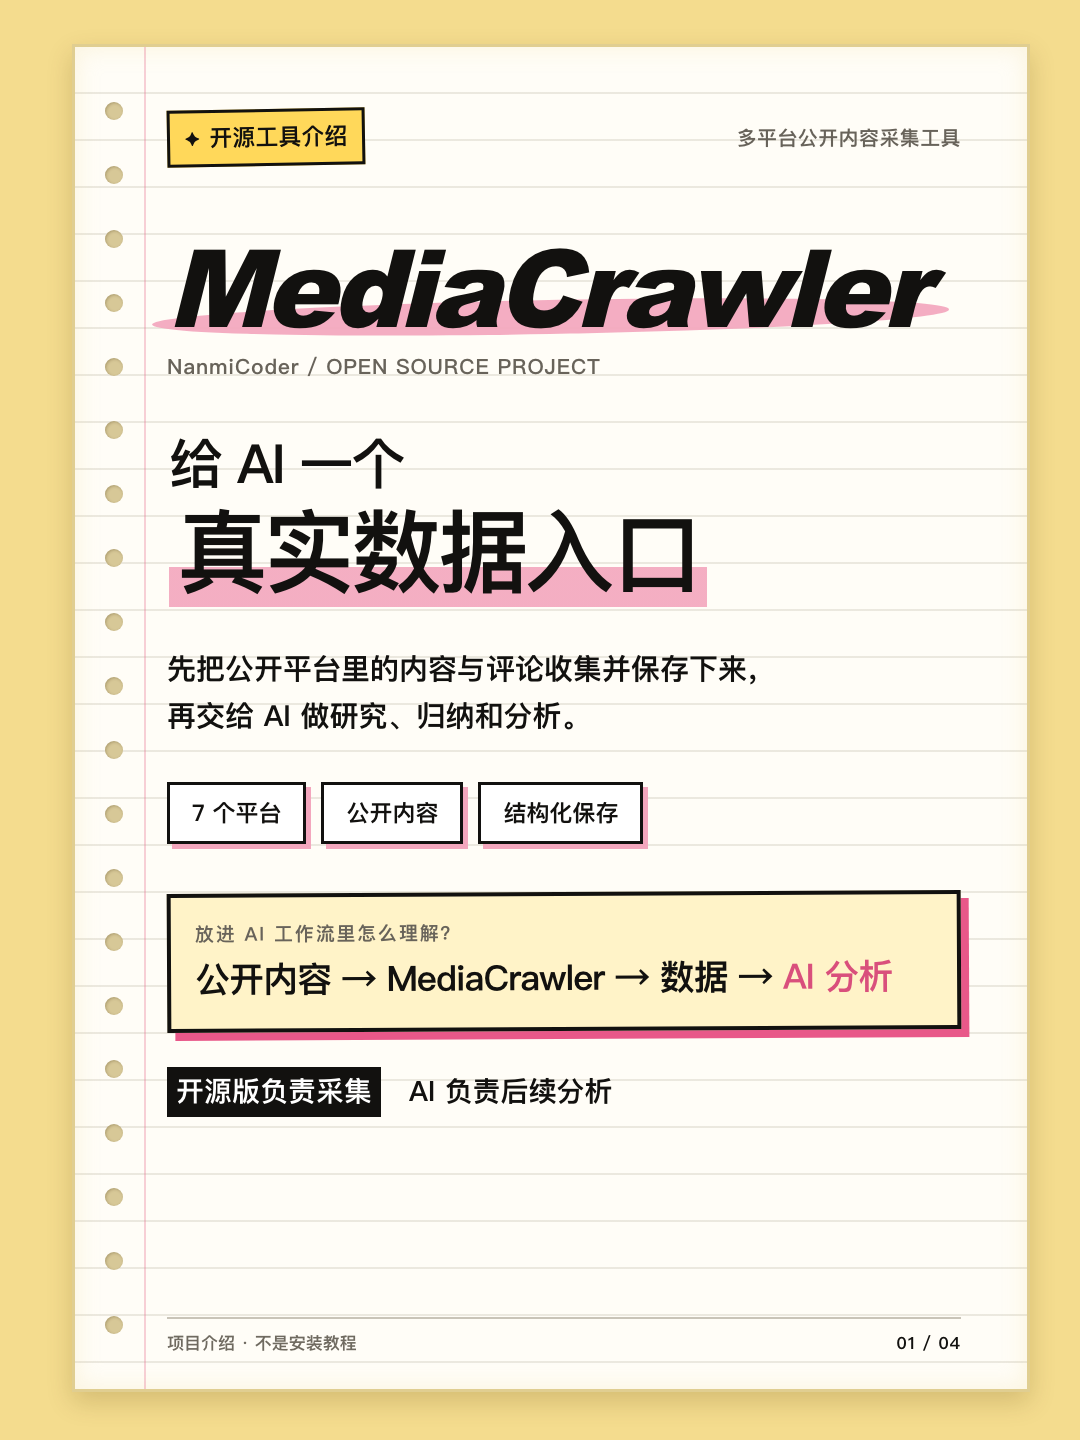
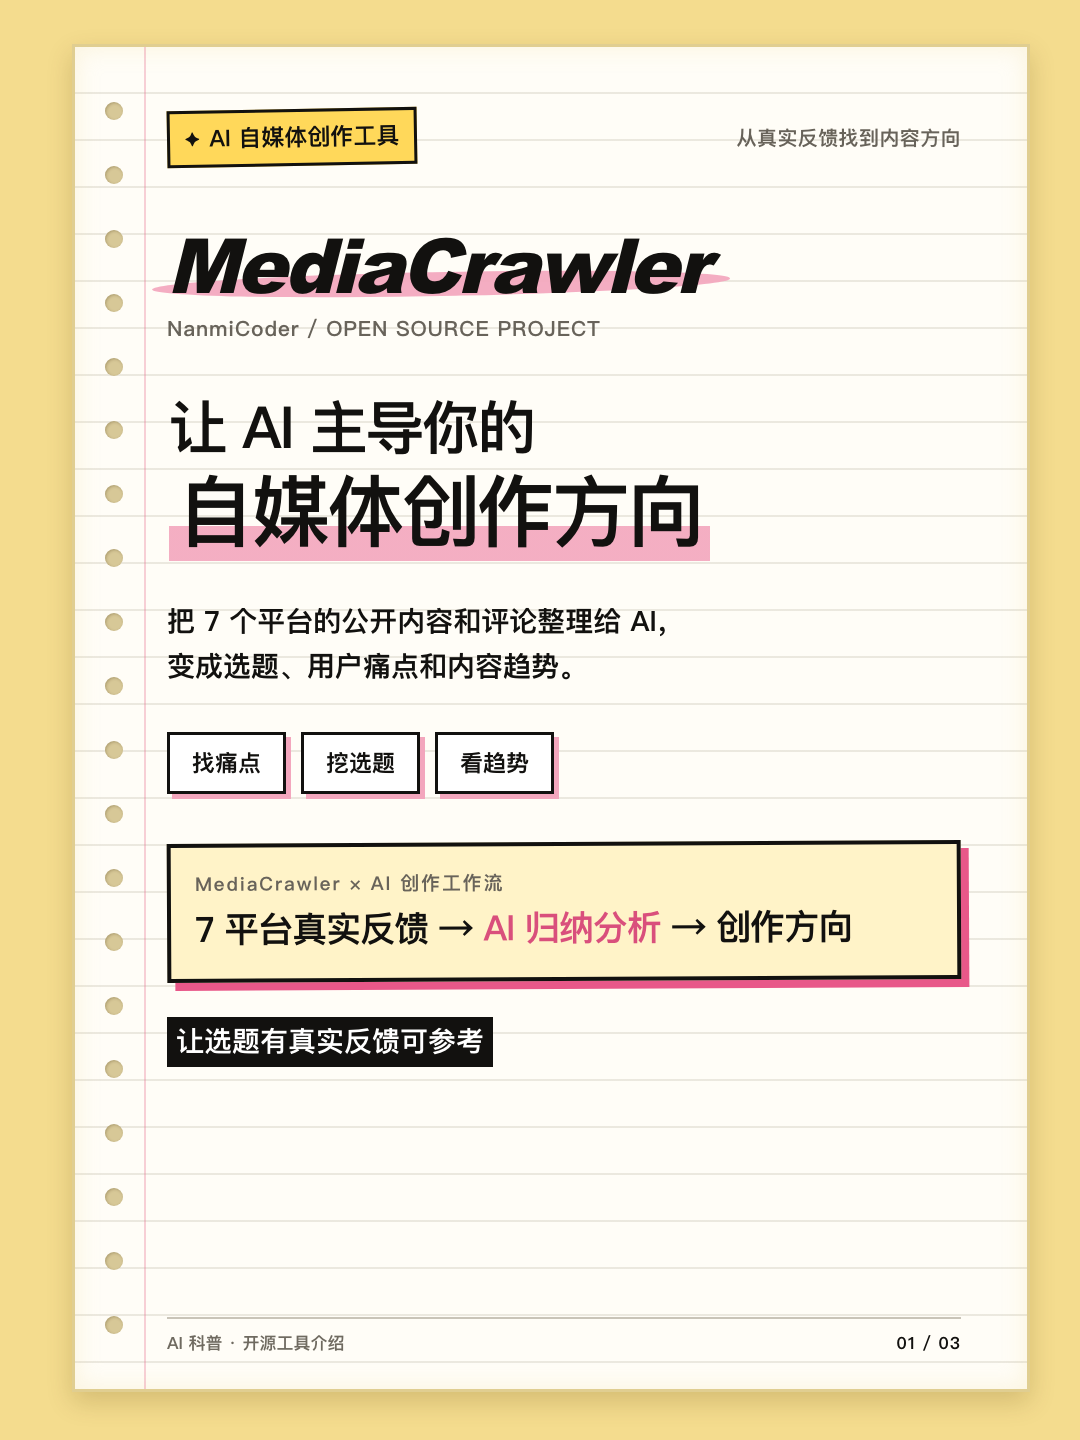
内容：突出 AI 自媒体创作价值并精简为三图

diff --git a/projects/issue-6-mediacrawler-ai-data-entry/cards/plan.md b/projects/issue-6-mediacrawler-ai-data-entry/cards/plan.md
@@ -1,13 +1,12 @@
-# 四卡视觉计划
+# 三卡视觉计划
 
 ## 交付数量
 
-最终只交付以下 4 张卡片：
+最终只交付以下 3 张卡片：
 
 1. `cards/output/xhs-01-cover.png`
 2. `cards/output/xhs-02-capabilities.png`
 3. `cards/output/xhs-03-ai-workflow.png`
-4. `cards/output/xhs-04-boundaries.png`
 
 ## 统一规格与视觉
 
@@ -17,20 +16,20 @@
 - 安全边距：四周至少 64 px
 - 生成方式：本地 HTML/CSS 确定性排版后截图
 - 参考 [“自媒体人都在用的爬虫神器”](https://www.xiaohongshu.com/explore/694eed8c000000002203a8f0) 的横线笔记本结构；
-- 四张统一使用暖黄色外框、白色横线纸、左侧装订孔、黑色粗体和粉色荧光笔强调；
-- 弱化 GitHub：不使用大号 `GitHub` 字样与章鱼图形，`MediaCrawler` 始终是项目识别主体；
-- 所有平台只使用文字名称，不使用 Logo；
-- 不放 GitHub Star、作者头像、仓库截图或未经许可的外部图片。
+- 三张统一使用暖黄色外框、白色横线纸、左侧装订孔、黑色粗体和粉色荧光笔强调；
+- 弱化 GitHub，不使用大号 `GitHub` 字样、章鱼图形、仓库截图和 Star 数；
+- 所有平台只使用文字名称，不使用 Logo。
 
-## 卡片 1：封面
+## 卡片 1：结果导向封面
 
-- 核心信息：这是一个能为 AI 工作流提供真实平台资料的开源采集项目。
-- 眉题：`开源工具介绍`
-- 第一视觉中心：`MediaCrawler`
-- Hook：`给 AI 一个 / 真实数据入口`
-- 轻量说明：`先收集公开内容与评论，再交给 AI 做研究和分析`
-- 三个能力标签：`7 个平台`、`公开内容`、`结构化保存`
-- 页码：`01 / 04`
+- 核心信息：MediaCrawler 能把多个平台的公开反馈整理给 AI，帮助判断自媒体创作方向。
+- 眉题：`AI 自媒体创作工具`
+- 工具名：`MediaCrawler`
+- 第一视觉中心：`让 AI 主导你的 / 自媒体创作方向`
+- 轻量说明：`把 7 个平台的公开内容和评论，变成选题、用户痛点和内容趋势`
+- 三个结果标签：`找痛点`、`挖选题`、`看趋势`
+- 简化链路：`7 平台真实反馈 → AI 归纳分析 → 创作方向`
+- 页码：`01 / 03`
 
 ## 卡片 2：项目能力
 
@@ -42,49 +41,37 @@
   - `看`：指定内容、创作者主页；
   - `收`：评论、二级评论。
 - 保存格式：JSON、Excel、SQLite / 数据库
-- 页码：`02 / 04`
+- 页码：`02 / 03`
 
-## 卡片 3：AI 工作流
+## 卡片 3：AI 创作工作流
 
-- 核心信息：采集与 AI 分析是前后相接的两个阶段。
-- 标题：`它和 AI，怎么配合？`
-- 示例主题：`普通用户最不懂 AI 绘图的什么？`
+- 核心信息：从采集公开资料到得到可执行创作方向的完整链路。
+- 标题：`它怎么帮你定创作方向？`
+- 用户问题：`下一条内容写什么？用户真正关心什么？`
 - 四步链路：
   1. 确定主题与关键词；
   2. MediaCrawler 收集公开内容与评论；
   3. 保存原始数据并保留出处；
-  4. AI 归纳高频问题、争议观点和选题线索。
-- 结论：`不是让 AI 替你下结论，而是先给它可回看的材料。`
-- 页码：`03 / 04`
-
-## 卡片 4：能力边界
-
-- 核心信息：介绍工具时必须分清开源版、Pro 版和使用边界。
-- 标题：`先分清这 3 件事`
-- 三点：
-  1. 开源版核心是数据采集，不是内置 AI Agent；
-  2. README 提到的内容拆解 Agent、AI Agent Skill 属于 MediaCrawlerPro；
-  3. 项目限非商业学习与研究，遵守平台规则，不做大规模采集。
-- 强调：`采集 ≠ 分析；AI 总结 ≠ 事实结论`
-- 项目入口：`github.com/NanmiCoder/MediaCrawler`
-- 页码：`04 / 04`
+  4. AI 归纳高频问题、用户痛点和争议观点。
+- AI 输出：`选题清单`、`用户痛点`、`内容角度`、`创作 Brief`
+- 结论：`从散落信息，变成可执行的创作方向。`
+- 页码：`03 / 03`
 
 ## 证据映射
 
 - 七个平台、采集能力：MediaCrawler README、`config/base_config.py`；
 - 数据格式：数据保存指南；
-- AI 工作流：基于已核实能力形成的方法示例，不声称已经实测固定效果；
-- 开源版/Pro 版边界：README 的 MediaCrawlerPro 段落；
-- 非商业学习边界：LICENSE。
+- AI 创作工作流：基于已核实采集能力形成的方法示例，不声称发布账号已实际运行固定效果；
+- 许可证、开源版与 Pro 版区分继续保留在 `research.md`，不进入三张公开卡片。
 
 事实来源见 `../sources/mediacrawler-source-map.md`；视觉参考见 `../sources/visual-reference.md`。
 
 ## QA 重点
 
-- 四张图片文件名、数量、尺寸和计划一致；
+- 三张图片文件名、数量、尺寸和计划一致；
+- 首页第一眼说清 AI 为自媒体创作带来的结果，不再以“数据入口”作为主标题；
 - 每张只表达一个核心意思，手机缩略图下标题仍清楚；
 - 七个平台名称无遗漏、无错字；
-- AI 工作流顺序一眼可读；
-- 不让读者误以为 MediaCrawler 开源版内置 AI；
-- 底部页码、边界文字不贴边、不裁切；
-- `cards/output/` 中最终只有四张 PNG。
+- 第 3 张从采集到创作方向的顺序一眼可读；
+- 底部页码不贴边、不裁切；
+- `cards/output/` 中最终只有三张 PNG。

diff --git a/projects/issue-6-mediacrawler-ai-data-entry/copy.md b/projects/issue-6-mediacrawler-ai-data-entry/copy.md
@@ -2,53 +2,53 @@
 
 ## 标题候选
 
-1. **别只喂提示词，先给 AI 真实数据**（最终采用）
-2. 这个爬虫，能给 AI 补上信息差
-3. AI 内容研究，多了一个数据入口
-4. MediaCrawler 到底能干嘛？
-
-最终标题不超过 20 个中文字符；“AI”按一个英文词组计入标题展示。
+1. **让 AI 主导你的自媒体创作方向**（最终采用）
+2. 让 AI 帮你决定下一条内容做什么
+3. 用 7 个平台的真实反馈，让 AI 帮你定选题
+4. MediaCrawler 到底能帮 AI 做什么？
 
 ## 最终正文
 
-很多人用 AI 做内容，第一反应是继续改提示词。
+做自媒体，最难的往往不是把内容写出来，而是决定：**下一条到底该写什么？**
 
-但有时候，问题根本不在提示词，而在于：**AI 手里没有你真正想研究的资料。**
+AI 很会生成，但如果它不知道平台上的用户正在讨论什么、吐槽什么、反复追问什么，给出的选题还是容易飘在空中。
 
-最近看到一个开源项目叫 **MediaCrawler**。它本身不是大模型，也不是开箱即用的 AI Agent。开源版做的事情更基础：帮你收集多个内容平台上的公开帖子、视频信息、创作者主页和评论。
+这时候，可以看看开源项目 **MediaCrawler**。
 
-目前项目 README 列出了 7 个平台：小红书、抖音、快手、B 站、微博、贴吧和知乎。你可以按关键词找内容，也可以采集指定内容、创作者主页和评论，再保存成表格、JSON 或数据库。
+它能收集多个内容平台上的公开帖子、视频信息、创作者主页和评论。目前项目 README 列出了 7 个平台：小红书、抖音、快手、B 站、微博、贴吧和知乎。
 
-那它为什么值得放进 AI 科普里讲？
+你可以按关键词寻找内容，也可以收集指定内容、创作者主页和评论，再保存成表格、JSON 或数据库。
 
-因为它刚好补上了 AI 工作流前面的一段：
+这些资料接进 AI 工作流后，就可以用来：
 
-**平台公开内容 → MediaCrawler → 可整理的数据 → AI 分析**
+- 归纳用户反复提到的高频问题；
+- 找出评论里的真实痛点；
+- 对比不同人群的争议观点；
+- 挖掘新的内容角度和选题方向；
+- 整理成下一轮创作可以直接使用的 Brief。
 
-举个例子。假设你想研究“普通用户最不懂 AI 绘图的什么”：
+比如你想研究“普通用户最不懂 AI 绘图的什么”，可以这样做：
 
-1. 先确定主题和关键词；
-2. 收集一组相关公开内容与评论；
-3. 把数据保存下来，保留原始出处；
-4. 再让 AI 归纳高频问题、常见误区和争议观点；
-5. 最后由人回看来源，整理成选题或内容 Brief。
+1. 确定主题和关键词；
+2. 用 MediaCrawler 收集相关公开内容与评论；
+3. 保存原始资料和出处；
+4. 让 AI 归纳高频问题、用户痛点和争议观点；
+5. 再整理成选题清单与内容 Brief。
 
-重点不是“让 AI 替你下结论”，而是先给它一批可以回看的真实材料。
+简单说，**MediaCrawler 负责把散落的平台反馈收起来，AI 负责从这些资料里找出创作方向。**
 
-这里也要分清一个边界：MediaCrawler 开源版的核心是数据采集；README 中提到的“内容拆解 Agent”和“AI Agent Skill”属于另外介绍的 MediaCrawlerPro，不要混成同一个功能。
+这样做内容时，参考的不只是自己的感觉，还有真实用户正在表达的问题。
 
-另外，这个项目使用的是非商业学习许可证，只适合学习与研究。实际使用时也要遵守平台规则，控制范围和频率，不采集私人信息，不做大规模抓取。
-
-如果你平时用 AI 做内容，你最想让它先帮你研究哪个平台？
+如果让 AI 帮你研究一个平台，你最想先看哪个？
 
 项目地址：https://github.com/NanmiCoder/MediaCrawler
 
 ## 标签建议
 
-`#AI工具` `#AI科普` `#开源项目` `#MediaCrawler` `#内容研究` `#数据分析` `#效率工具`
+`#AI工具` `#AI科普` `#自媒体运营` `#MediaCrawler` `#内容创作` `#选题策划` `#效率工具`
 
 ## 发布备注
 
 - 链接在部分平台可能不可直接点击，发布时可保留项目名与 GitHub 路径；
 - 不添加“亲测”“一直在用”等第一人称体验表述；
-- 如发布前 README 已更新，应重新核对七个平台、Pro 版能力和许可证。
+- 如发布前 README 已更新，应重新核对七个平台和采集能力。

diff --git a/projects/issue-6-mediacrawler-ai-data-entry/qa.md b/projects/issue-6-mediacrawler-ai-data-entry/qa.md
@@ -1,6 +1,6 @@
 # Issue #6 质量检查
 
-检查时间：2026-07-31T11:31:57+08:00
+检查时间：2026-07-31T11:58:43+08:00
 
 ## 事实与来源
 
@@ -16,34 +16,33 @@
 
 ## 文案
 
-- [x] 标题、封面与正文都围绕“给 AI 真实数据”展开；
+- [x] 标题、封面与正文都围绕“让 AI 从真实平台反馈中判断自媒体创作方向”展开；
 - [x] 标题不超过 20 个中文字符；
-- [x] 开头直接指出“问题可能不在提示词，而在资料”；
-- [x] 正文包含工具是什么、与 AI 的关系、具体工作流、适用场景和使用边界；
+- [x] 开头直接指出自媒体创作者“下一条写什么”的问题；
+- [x] 正文包含工具是什么、采集能力、AI 创作工作流和具体产出；
+- [x] 公开文案聚焦找痛点、挖选题、归纳观点和生成 Brief，不使用能力边界作为推销主线；
 - [x] 未写成安装教程，未虚构亲自使用经历、效果或作者背书；
 - [x] 清理了“神器、颠覆、一键全网”等夸张或模板化表述；
 - [x] 标签与主题相关，未堆砌无关热词。
 
 ## 视觉
 
-- [x] 四张最终图片均为 `1080×1440` PNG；
-- [x] `cards/output/` 最终且仅包含以下四张图片：
+- [x] 三张最终图片均为 `1080×1440` PNG；
+- [x] `cards/output/` 最终且仅包含以下三张图片：
   - `xhs-01-cover.png`
   - `xhs-02-capabilities.png`
   - `xhs-03-ai-workflow.png`
-  - `xhs-04-boundaries.png`
-- [x] 四张图片均已按原始尺寸实际打开检查；
-- [x] 四张图片均已缩放为 `360×480` 手机预览，并通过四图总览检查；
-- [x] `MediaCrawler` 是第一视觉中心，大号 GitHub 标题与 GitHub 图形均未使用；
-- [x] 第 1 张只承担项目 Hook，项目名、“真实数据入口”和三个能力标签无错字；
+- [x] 三张图片均已按原始尺寸实际打开检查；
+- [x] 三张图片均已缩放为 `360×480` 手机预览，并通过三图总览检查；
+- [x] 首页第一视觉中心为“让 AI 主导你的自媒体创作方向”，`MediaCrawler` 作为工具识别层；
+- [x] 首页直接说明“找痛点、挖选题、看趋势”，没有继续使用抽象的“数据入口”主标题；
 - [x] 第 2 张七个平台名称齐全，“搜 / 看 / 收”三组能力与保存格式清楚；
-- [x] 第 3 张四步 AI 工作流顺序清楚，采集、保存与 AI 分析没有混写；
-- [x] 第 4 张明确区分开源版、Pro 版与许可证边界；
-- [x] 四张均无文字溢出、遮挡或错误裁切，四周安全边距和底部页码完整；
-- [x] 四张保持暖黄色外框、横线纸、装订孔、黑色粗体与粉色强调的一致视觉；
+- [x] 第 3 张四步 AI 创作工作流顺序清楚，并列出选题清单、用户痛点、内容角度和创作 Brief；
+- [x] 原第 4 张能力边界卡已删除；
+- [x] 三张均无文字溢出、遮挡或错误裁切，四周安全边距和 `01 / 03` 至 `03 / 03` 页码完整；
+- [x] 三张保持暖黄色外框、横线纸、装订孔、黑色粗体与粉色强调的一致视觉；
 - [x] 未使用平台 Logo、仓库截图或外部图片；
-- [x] 卡片明确写出“开源版负责采集，AI 负责后续分析”；
-- [x] 第 4 张保留非商业学习、平台规则和查看最新 README / LICENSE 的提示。
+- [x] 卡片清楚表达“MediaCrawler 获取平台反馈，AI 提炼创作方向”。
 
 ## 模型与生成
 

diff --git a/projects/issue-6-mediacrawler-ai-data-entry/manifest.md b/projects/issue-6-mediacrawler-ai-data-entry/manifest.md
@@ -5,13 +5,13 @@
 - 当前阶段：`ready`
 - 状态：`ready`
 - 下游文本模型：未调用；研究与写作由 Codex 基于可追溯来源完成
-- 下游图片模型：未调用；四张卡片采用确定性 HTML/CSS 渲染
+- 下游图片模型：未调用；三张卡片采用确定性 HTML/CSS 渲染
 - 下游视频模型：未调用；静态图文不进入视频链路
-- 已完成：`brief.md`、`sources/mediacrawler-source-map.md`、`sources/visual-reference.md`、`research.md`、`copy.md`、四卡 `cards/plan.md`、四张最终 PNG、逐张视觉检查、手机缩略图检查、`qa.md`
+- 已完成：研究与来源核验、三卡 `brief.md` 与 `cards/plan.md`、结果导向配文、三张最终 PNG、逐张原图检查、手机缩略图与三图总览检查、`qa.md`
 - 待完成：无
 - 失败项：无
-- 下一步：等待用户审阅内容包
-- 最后核验时间：2026-07-31T11:31:57+08:00
+- 下一步：等待用户审阅三图内容包
+- 最后核验时间：2026-07-31T11:58:43+08:00
 
 ## 交付路径
 
@@ -21,5 +21,4 @@
   - `cards/output/xhs-01-cover.png`
   - `cards/output/xhs-02-capabilities.png`
   - `cards/output/xhs-03-ai-workflow.png`
-  - `cards/output/xhs-04-boundaries.png`
 - 质量检查：`qa.md`

diff --git a/projects/issue-6-mediacrawler-ai-data-entry/sources/visual-reference.md b/projects/issue-6-mediacrawler-ai-data-entry/sources/visual-reference.md
@@ -1,4 +1,4 @@
-# 四卡视觉参考
+# 三卡视觉参考
 
 核验日期：2026-07-31（Asia/Taipei）
 
@@ -13,11 +13,9 @@
 
 - 去掉参考图中占据第一视觉层级的 `GitHub / 开源项目分享`；
 - 去掉 GitHub 章鱼图形，不让平台品牌抢过项目本身；
-- 将 `MediaCrawler` 放到最大字号和画面中心；
-- 第二视觉层级改为“给 AI 一个真实数据入口”；
-- 第 1 张保留项目名、AI Hook 和三组短信息；
-- 第 2 至 4 张沿用同一视觉系统，分别展开项目能力、AI 工作流和能力边界；
-- 保留“开源版负责采集，AI 负责后续分析”的事实边界。
+- 第 1 张把“让 AI 主导你的自媒体创作方向”放在第一视觉层级，项目名退到工具识别层；
+- 第 2、3 张沿用同一视觉系统，分别展开项目能力和 AI 创作工作流；
+- 删除原能力边界卡，公开表达集中展示工具价值与 AI 用途。
 
 ## 不复用内容
 
